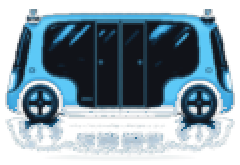
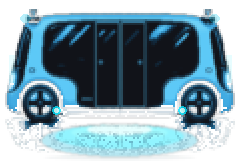
Restore bright cyan Zoox underglow and accent lights
Bring back the preferred neon underglow pool and cyan sensor/hub
lights while keeping the matte sky-blue RoboTaxi body.

diff --git a/src/objects/Zoox.js b/src/objects/Zoox.js
@@ -77,11 +77,15 @@ export class Zoox extends Phaser.Physics.Arcade.Sprite {
     this.shadow.setPosition(this.x + 2, this.baseY + 18);
     this.headlight.setPosition(this.x + 70, this.y - 8);
     this.taillight.setPosition(this.x - 60, this.y - 8);
-    // Visual-only underglow shimmer — kept soft/dim so body stays matte blue.
+    // Visual-only underglow — bright cyan pool like the preferred look.
     this.underglow.clear();
-    const pulse = 0.06 + Math.sin(this.scene.time.now / 240) * 0.02;
+    const pulse = 0.28 + Math.sin(this.scene.time.now / 180) * 0.08;
+    this.underglow.fillStyle(0x3acbff, pulse * 0.45);
+    this.underglow.fillEllipse(this.x, this.baseY + 18, 112, 18);
     this.underglow.fillStyle(0x00e5ff, pulse);
-    this.underglow.fillEllipse(this.x, this.baseY + 17, 84, 10);
+    this.underglow.fillEllipse(this.x, this.baseY + 16, 92, 12);
+    this.underglow.fillStyle(0xffffff, pulse * 0.25);
+    this.underglow.fillEllipse(this.x, this.baseY + 15, 40, 5);
   }
 
   /**
